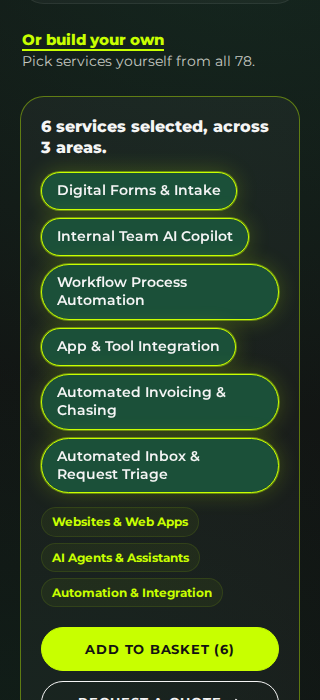
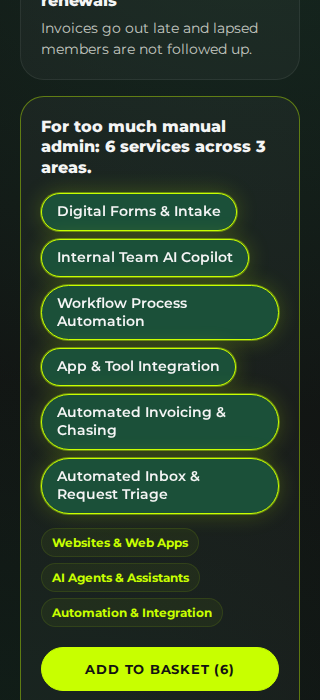
GRE-3407 Retake the lit screenshots after Keystone's review

Changed region(s): [[0.125, 0.15, 0.875, 1.0], [0.0625, 0.0, 0.8125, 0.09]]

diff --git a/docs/screenshots/GRE-3407/README.md b/docs/screenshots/GRE-3407/README.md
@@ -11,3 +11,5 @@ Second pass after Mikey's review: the answer now sits right under the problems, 
 - `*-build-your-own`: "Or build your own" opens the catalogue; two services toggled with the keyboard only (Enter, then Space).
 
 Checked in the same run: no sideways scroll at 1440, 390 or 320; every visible button and link at least 44px tall; no console errors; under reduced motion the chip animation is off and every transition is 0s.
+
+Third pass after Keystone's review (`*-lit` retaken): the answer heading names the problem it answers ("For too much manual admin: 6 services across 3 areas."), and below 900px "Or build your own" sits after the answer panel, so the answer follows the tapped card directly. Problems now come from the site database (`/api/compose-problems`); in this local run there is no database, so the block shows the bundled copy, which is the same six problems.
